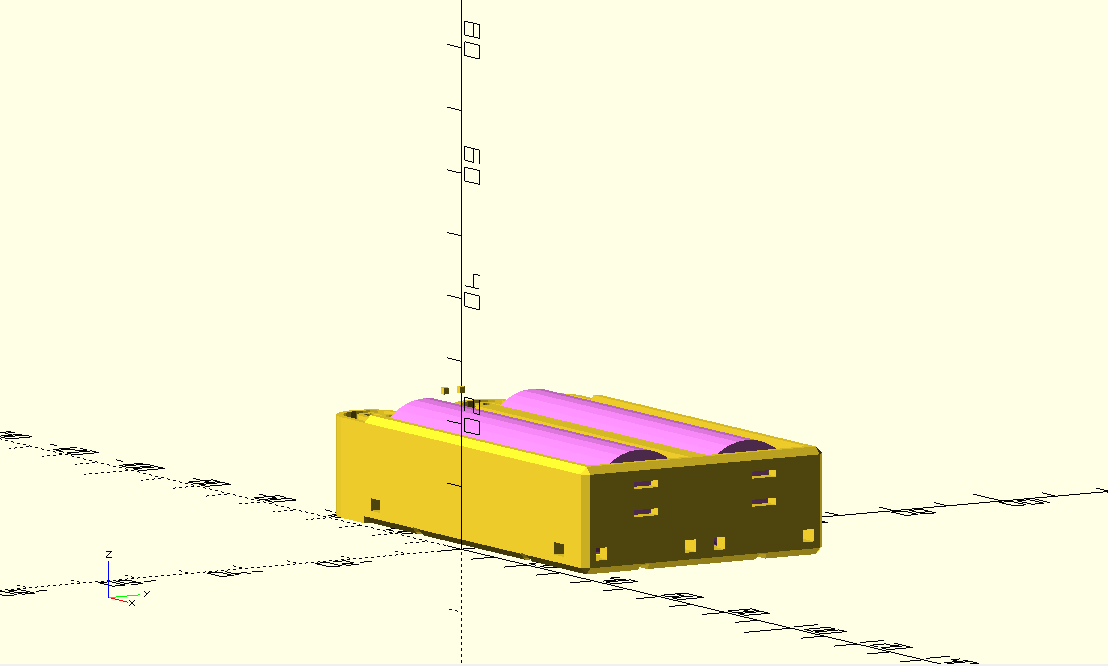
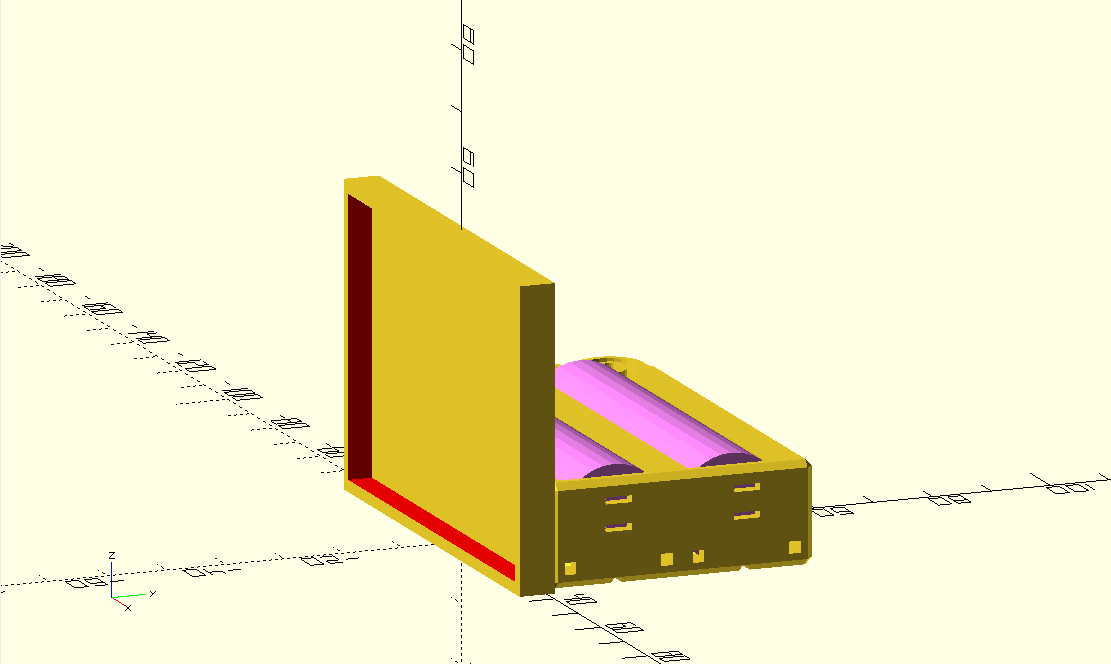
README: new screenshot witg akkum case

diff --git a/README.md b/README.md
@@ -5,6 +5,7 @@
 Model for 3D-printing of language OpenScad.
 Backlight powered from akkum 18650 LiIon.
 
+![commonMD](build_frame_2akkum_openscad.png)
 ![commonMD](build_frame_openscad.png)
 
 # Hyperlinks
